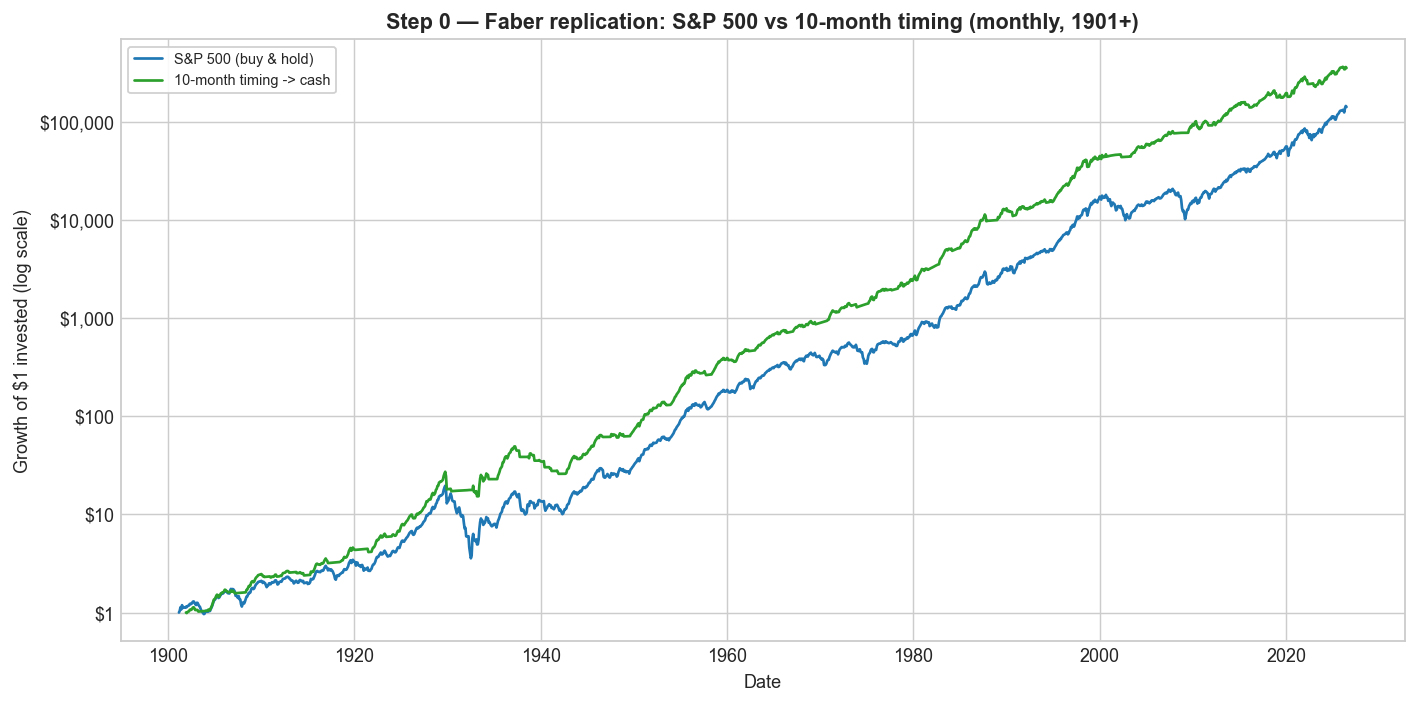
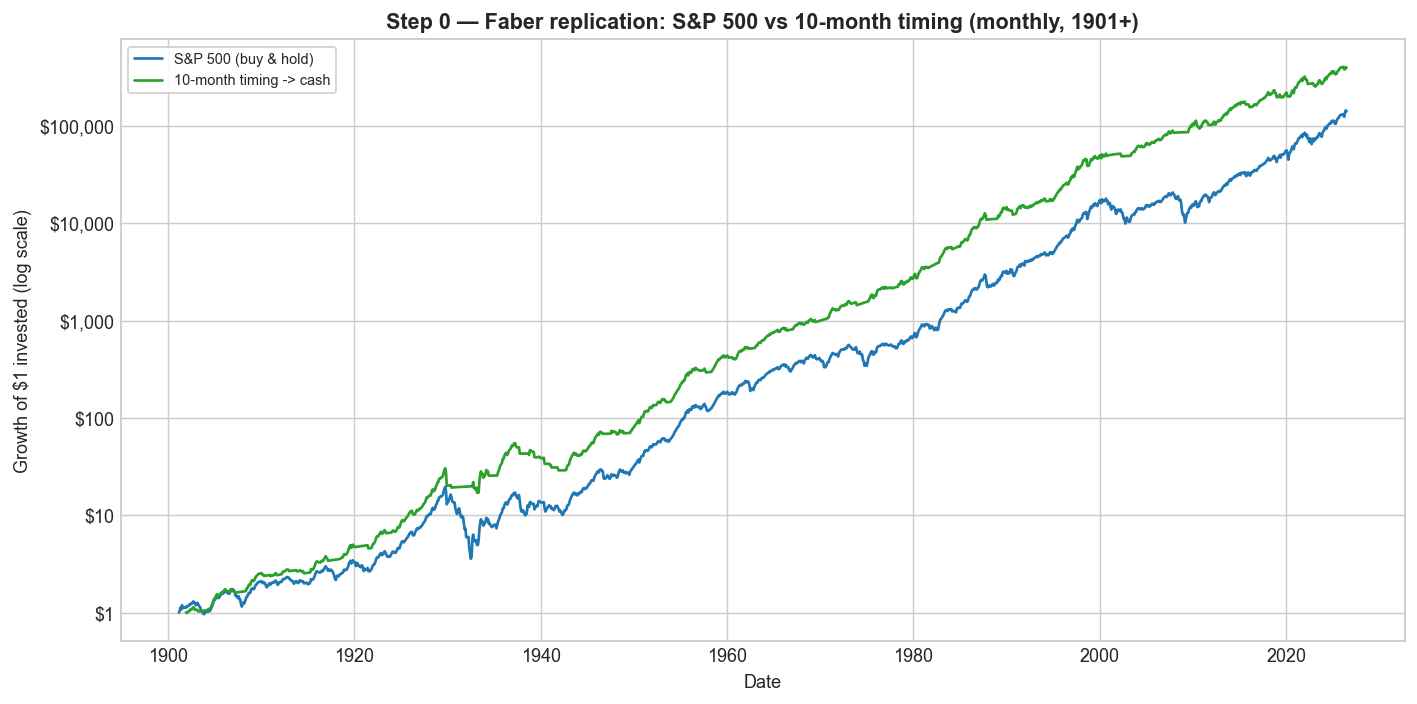
No arbitrary placeholders: real data everywhere; pre-1926 gap uses the real-series average
Audited the whole data path for non-real values. Findings + fixes:

- Returns: ALL real. Daily TR = real ^SP500TR (1988+) spliced with a reconstruction
  from REAL ^GSPC price + REAL Shiller dividends (validated 0.5%/yr vs the real
  series). Monthly TR = real Shiller. Added a guard so run_faber_leverage refuses to
  run on the synthetic offline-fallback series (it never silently fakes data).

- T-bills: real ^IRX (1960+) and real Ken French / Ibbotson 1-month bill (1926+).
  The ONLY remaining arbitrary constant was a 2% placeholder for 1901-1926 (touched
  only by the monthly Faber replication; the daily 1928+ analysis was already 100%
  real). Replaced it with the AVERAGE of the real T-bill series (3.29%/yr) per the
  request -- an average of real history, not a made-up number.

Effect: the daily headline tables are UNCHANGED (daily rf was already real --
buy-hold Sharpe stays 0.4346). Only the 1901-1926 monthly replication shifts
slightly (buy-hold Sharpe 0.50->0.49, timing 0.74->0.72, timing CAGR 10.89->10.99).

src/long_history.py: avg_real_tbill_monthly() + real-average gap fill in
long_risk_free_daily/_monthly. run_faber_leverage.py: real-data guard. Paper + README
now carry an explicit "Data provenance -- what is real" note. 11 tests pass; PDF
rebuilt.

diff --git a/src/long_history.py b/src/long_history.py
@@ -295,19 +295,30 @@ def load_ff_riskfree() -> pd.Series:
 # ---------------------------------------------------------------------------
 # Long risk-free (T-bill) series
 # ---------------------------------------------------------------------------
+def avg_real_tbill_monthly() -> float:
+    """The AVERAGE monthly T-bill return over the real data we have (Ken French,
+    1926+). Used only to fill the pre-1926 gap, so a missing stretch is an average
+    of real history rather than an arbitrary made-up number."""
+    ff = load_ff_riskfree()
+    if len(ff):
+        return float(ff.mean())
+    return (1.0 + PRE1960_TBILL_ANNUAL) ** (1.0 / 12.0) - 1.0
+
+
 def long_risk_free_daily(index: pd.Index) -> pd.Series:
     """Daily risk-free return aligned to ``index``, using REAL T-bill rates:
 
       * 1960 onward : ^IRX (13-week T-bill), converted to a daily rate.
       * before 1960 : Ken French 1-month T-bill (Ibbotson), the monthly return
                       spread evenly across that month's trading days.
-      * before 1926 : the small ``PRE1960_TBILL_ANNUAL`` constant (rarely hit;
-                      our daily history starts in 1928).
+      * before 1926 : the AVERAGE of the real T-bill series above (the daily
+                      history starts in 1928, so this is essentially never hit).
     """
     rf = dl.get_risk_free_daily(index).copy()    # ^IRX-based, 0 before it starts
     irx = dl.get_level_series(config.RISK_FREE_TICKER)
     irx_start = irx.index.min() if irx is not None else pd.Timestamp("1960-01-01")
-    const_daily = (1.0 + PRE1960_TBILL_ANNUAL) ** (1.0 / config.TRADING_DAYS_PER_YEAR) - 1.0
+    # Fill value for any gap = the average of the REAL series (not a constant).
+    fill_daily = (1.0 + avg_real_tbill_monthly()) ** (1.0 / config.TRADING_DAYS_PER_MONTH) - 1.0
 
     pre = index[index < irx_start]
     if len(pre):
@@ -318,18 +329,15 @@ def long_risk_free_daily(index: pd.Index) -> pd.Series:
             # number of in-sample trading days per pre-1960 month
             days = pd.Series(1, index=pm).groupby(level=0).transform("sum")
             monthly = pd.Series(ff_p.reindex(pm).values, index=pre)
-            daily_pre = (monthly.values / days.values)
-            rf.loc[pre] = daily_pre
-        else:
-            rf.loc[pre] = const_daily
-        rf.loc[pre] = rf.loc[pre].fillna(const_daily)
+            rf.loc[pre] = monthly.values / days.values
+        rf.loc[pre] = rf.loc[pre].fillna(fill_daily)   # pre-1926 gap -> real-series average
     return rf.rename("rf_daily")
 
 
 def long_risk_free_monthly(index: pd.Index) -> pd.Series:
     """Monthly risk-free return aligned to month-end ``index``: ^IRX (1960+),
-    Ken French 1-month T-bill (1926-1960), and a small constant before 1926."""
-    const_monthly = (1.0 + PRE1960_TBILL_ANNUAL) ** (1.0 / 12.0) - 1.0
+    Ken French 1-month T-bill (1926-1960), and — for the pre-1926 gap that only
+    the 1901-1926 monthly replication touches — the AVERAGE of the real series."""
     irx = dl.get_level_series(config.RISK_FREE_TICKER)
     out = pd.Series(np.nan, index=index)
 
@@ -342,4 +350,4 @@ def long_risk_free_monthly(index: pd.Index) -> pd.Series:
         irx_m = irx_m.reindex(index).ffill()
         mask = index >= irx.index.min()        # ^IRX takes over from 1960
         out[mask] = irx_m[mask]
-    return out.fillna(const_monthly).rename("rf_monthly")
+    return out.fillna(avg_real_tbill_monthly()).rename("rf_monthly")

diff --git a/run_faber_leverage.py b/run_faber_leverage.py
@@ -669,6 +669,14 @@ def main():
     # --- data ---
     print("[data] building long-history total return ...")
     daily_idx, meta = lh.long_daily_tr()
+    # Guard: NEVER run the analysis on the synthetic fallback. The paper must use
+    # real data (real ^SP500TR spliced with a real-price + real-dividend
+    # reconstruction); error out loudly if the real series are missing.
+    if meta.get("method") != "spliced":
+        raise RuntimeError(
+            "Refusing to run on non-real data: long_daily_tr fell back to "
+            f"'{meta.get('method')}'. Ensure ^SP500TR and ^GSPC are downloaded "
+            "(delete data/raw cache and re-run with a network connection).")
     monthly_idx = lh.combined_monthly_tr(start="1901-01-01")
     u = rt.simple_returns(daily_idx)
     rf_d = lh.long_risk_free_daily(u.index)

diff --git a/reports/research_paper.md b/reports/research_paper.md
@@ -10,9 +10,25 @@ the Shiller dividend yield (this reconstruction tracks the real series with
 0.50%/yr error and 0.9996 correlation over 1988–2026). Cash and the financing of
 leverage use **real T-bill rates** throughout: `^IRX` (13-week T-bill) from 1960,
 and the Ken French / Ibbotson **1-month T-bill** (monthly) before that, back to
-1926 — so the risk-free covers the entire 1928+ daily sample (it averaged ~0% in
-the 1930s–40s, ~1–3% in the 1950s, and ~3.2% over the full sample). The trend
-signal is lagged one day, so nothing uses information we could not have had.
+1926 — so the risk-free is **real** across the entire 1928+ daily sample (≈0% in
+the 1930s–40s, ~1–3% in the 1950s, ~3.2% mean). The trend signal is lagged one day,
+so nothing uses information we could not have had.
+
+**Data provenance — what is real.** Every return and every cash rate in this study
+is *real, physical* market data, not an assumption:
+
+* **Daily total return** — real `^SP500TR` from 1988; before that, **real** `^GSPC`
+  price returns plus the **real** Shiller dividend yield (a reconstruction of total
+  return from two real series, validated against `^SP500TR` at 0.50%/yr tracking
+  error and 0.9996 correlation over 1988–2026). The pipeline **refuses to run** on
+  the synthetic offline-fallback series.
+* **Monthly total return** (Faber replication) — real Shiller price + dividends.
+* **T-bill / cash** — real `^IRX` (1960+) and real Ken French / Ibbotson 1-month
+  bill (1926+). The *only* span with no free real short-rate data is **1901–1926**
+  (touched solely by the monthly replication); there we apply the **average of the
+  real T-bill series (≈3.3%/yr)**, not an arbitrary constant.
+* **The one explicit model** (not data) is the cost set in §2 (expense, financing
+  spread over the real T-bill, turnover); every result is also available *gross*.
 
 **How the ratios are computed** (all from *daily* returns, then annualized):
 * **CAGR** — geometric: the constant yearly rate that turns the start wealth into
@@ -44,9 +60,9 @@ use that, then its daily twin (the 200-day SMA).
 
 | | S&P 500 buy & hold | 10-month timing → cash |
 |---|---|---|
-| CAGR | 9.95% | 10.89% |
-| Volatility | 15.4% | 10.8% |
-| Sharpe | 0.50 | **0.74** |
+| CAGR | 9.95% | 10.99% |
+| Volatility | 15.4% | 10.9% |
+| Sharpe | 0.49 | **0.72** |
 | Max drawdown | −81.8% | **−47.5%** |
 
 (Faber's published drawdowns are −83.66% → −42.24%; we reproduce the same

diff --git a/README.md b/README.md
@@ -241,6 +241,15 @@ reports/
 * **Monthly total return back to 1901** (Shiller) for the Faber replication.
 * **Cash / financing:** real T-bill rates throughout — `^IRX` (13-week) from 1960,
   and the Ken French / Ibbotson 1-month T-bill (monthly) before that, back to 1926.
+  The only span with no free real short-rate (1901–1926, used only by the monthly
+  Faber replication) uses the **average of the real series (≈3.3%/yr)**, not a
+  made-up constant.
+
+**Everything is real, physical data** — the daily total return is real `^SP500TR`
+(1988+) and, before that, real `^GSPC` price + real Shiller dividends (validated at
+0.5%/yr vs the real series); the pipeline refuses to run on the synthetic fallback.
+The one explicit *model* (not data) is the cost set (expense, financing spread,
+turnover), and every result is also available gross.
 * **Real leveraged ETFs:** SSO (2×), UPRO (3×), SPXL (3×).
 
 Sources are Yahoo Finance (`yfinance`), Robert Shiller's dataset (long dividends),